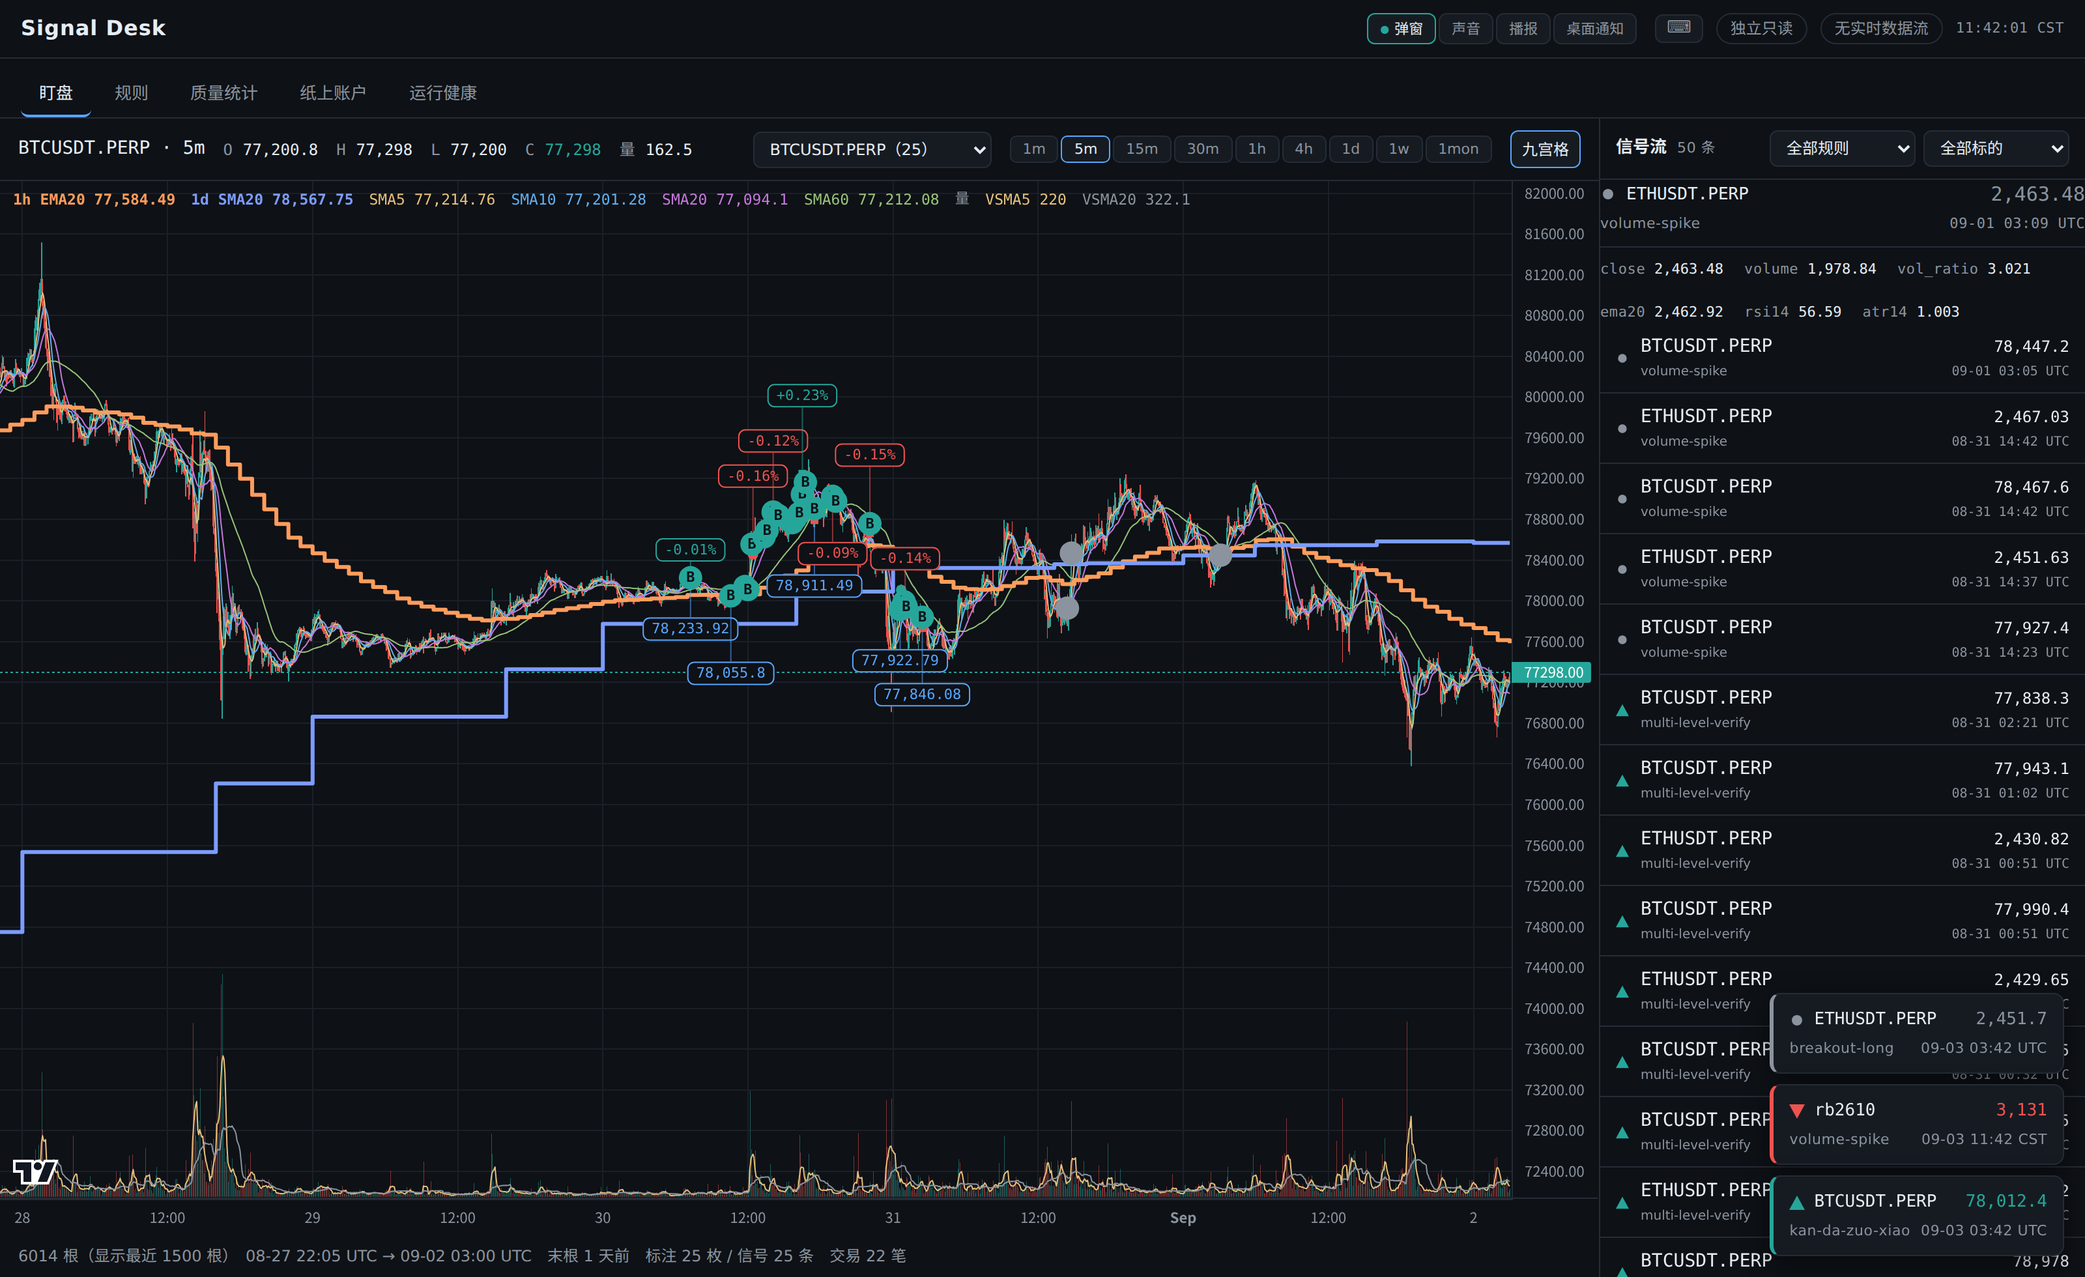
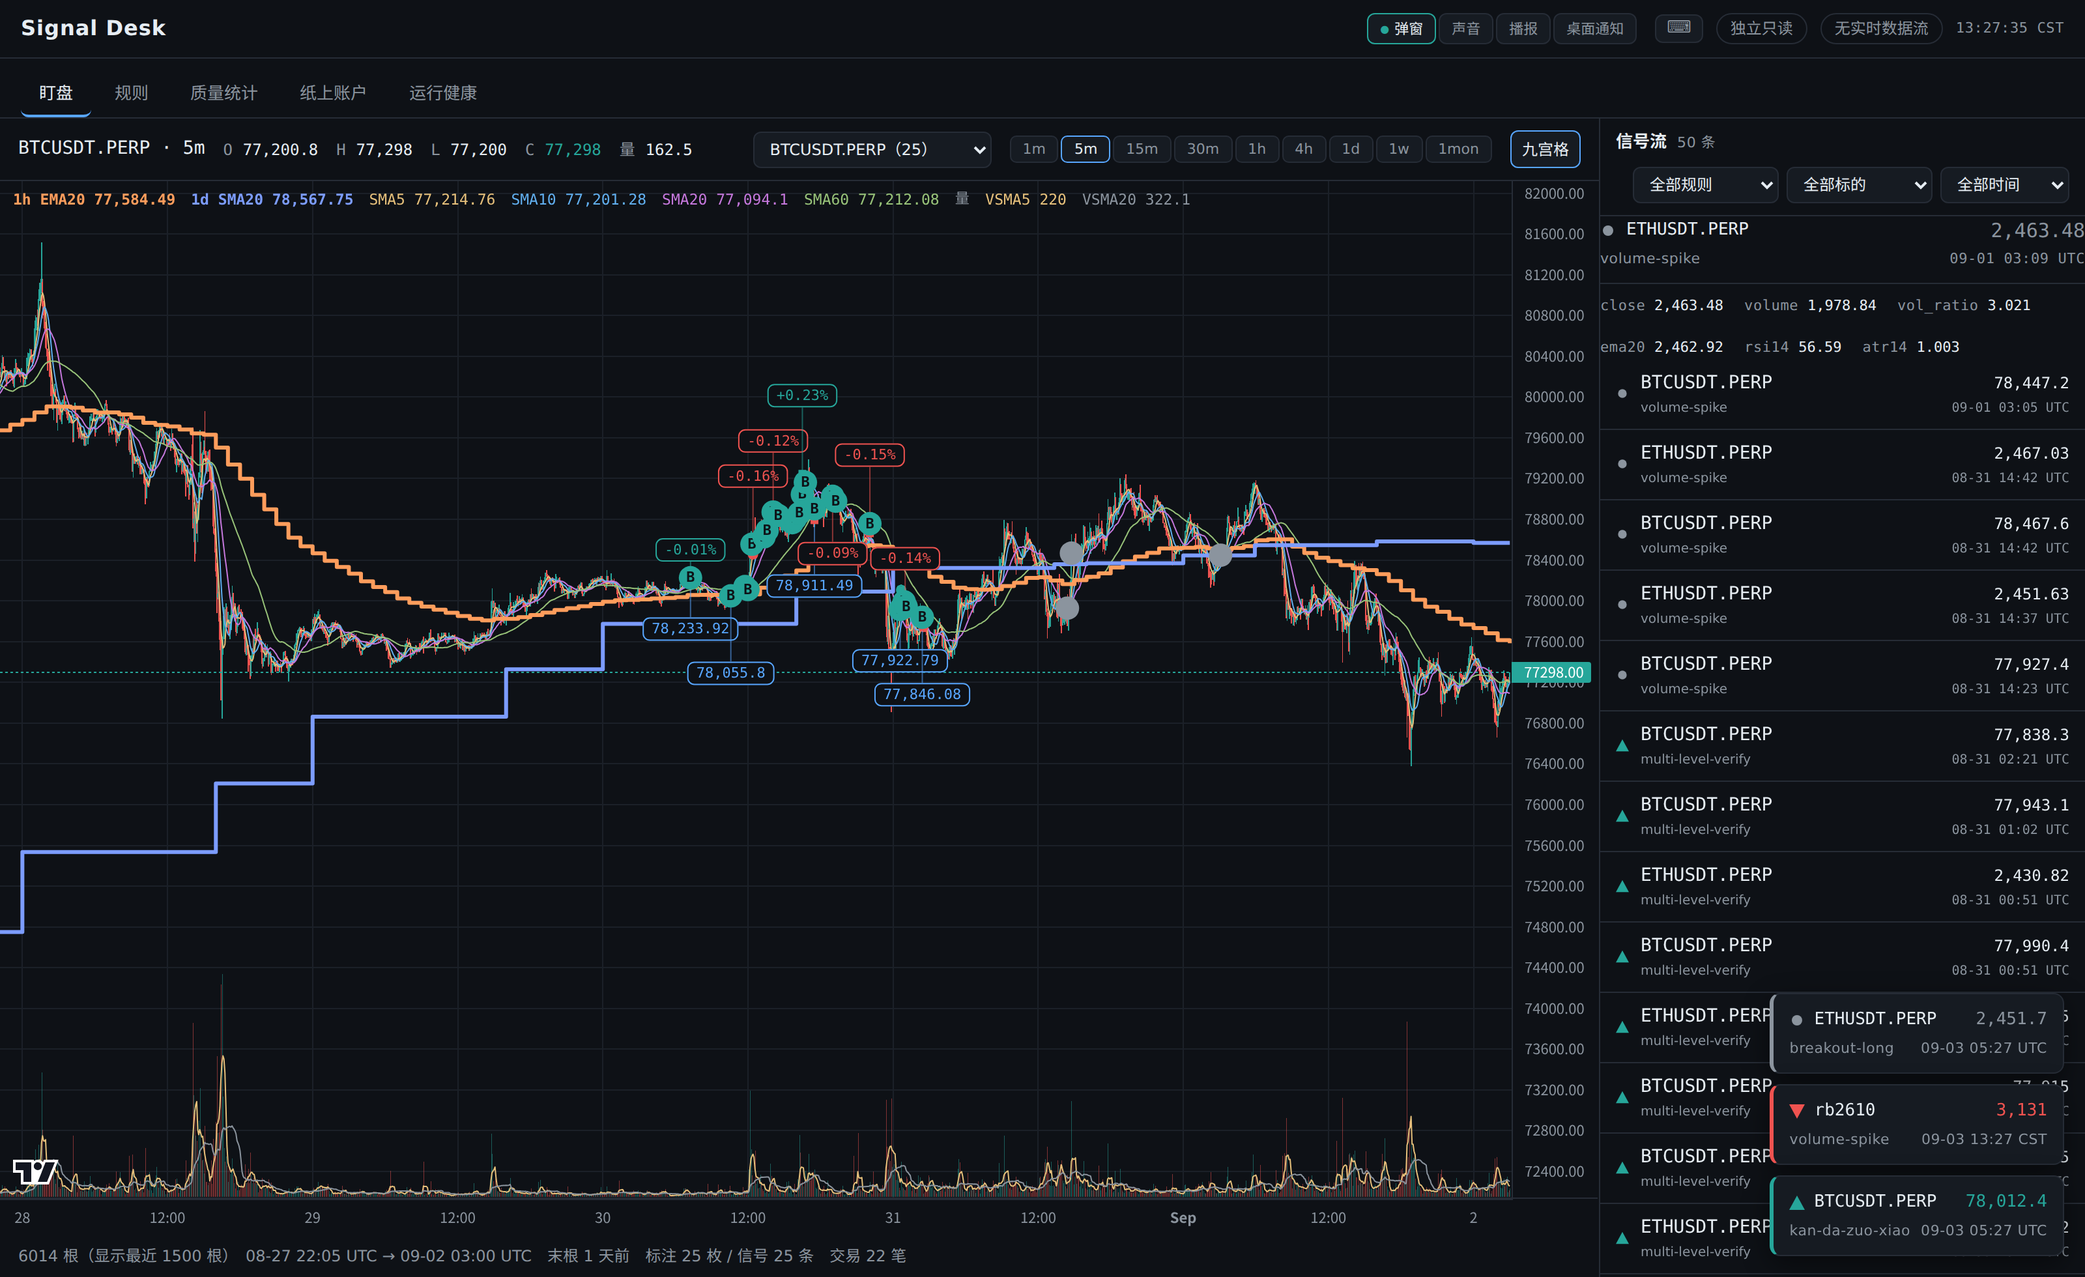
fix(web): 信号流补时间筛选；修控件高矮不齐与标题竖排
## 我少做了一块

上一版说「信号流支持按日期翻页」，实际只交付了**按条数翻页** ——
日期筛选只做在了质量统计页。服务端的 `since`/`until` 当时就一起做了，
缺的是信号流的界面入口。用户直接问「怎么没看到」。

补上：今天 / 近 3·7·30 天 / 指定日期。**走服务端筛选**而不是只筛已加载的那批，
所以能直接跳到任意日期，不用先「加载更早的」一页页翻回去。
换时间范围会从 offset=0 重拉（offset 是相对该范围的，沿用旧的会错位）。
日期按 CST 解释，与图上时间戳同口径。

另外用户看不到翻页按钮还有第二个原因：它**只在信号超过一页（500 条）时才出现**。

## 两个视觉问题（用户提醒「改前端要注意 UI 统一性」）

**① 统计口径栏的 chip 高矮不齐。** `.chip` 自己带边框，里面的控件本该去掉自身那套，
但原来只覆盖了 `input` —— 加 `<select>` 和 `<input type=date>` 就成了盒中盒。
而且四类控件默认行高各不相同，实测高度极差 **29.5px**
（其中「次根开盘入场」那个复选框 chip 高 5px，是本来就有的，一起量出来了）。
修法：`.chip` 钉 `min-height` + `box-sizing`，`select`/`date` 纳入覆盖，
复选框那个 chip 单独按居中对齐。**极差 29.5px -> 0.0px。**

**② 「信号流」标题被挤成竖排。** 加第三个筛选框把 rail-head 撑爆，
中文标题被压到最小宽度、一个字一行。**这是同一个坑的第三次**
（chart-head 的「九宫格」、cell-head、现在 rail-head）。
防法固定：标题 `flex:none` + `nowrap`，让**控件换行**而不是让标题被压扁。

CLAUDE.md 新增「前端改动的视觉一致性」一节，把这三条连同
「加控件之后必须截图量一遍」一起钉住 —— 这三类问题读代码全看不出来。

## 验证

真机量过：统计页六个 chip 高度全部 26px、顶部对齐（极差 0.0px）；
「信号流」标题 19.5px 单行不竖排；信号流选「今天」-> 0 条（本地数据止于 09-02）、
选「近 7 天」-> 50 条，请求确实带 `since=`；控制台无错误。

830 测试全绿（+4），ruff/mypy 干净，离线验收 49/49，截图已刷新。

Claude-Session: https://claude.ai/code/session_01StaFvqArU2DTk7UbXubU3U

Changed region(s): [[0.75, 0.0934, 1.0, 1.0], [0.9375, 0.2801, 1.0, 0.7781]]

diff --git a/src/sigdesk/web/static/styles.css b/src/sigdesk/web/static/styles.css
@@ -90,11 +90,16 @@ input:focus,select:focus{outline:none;border-color:var(--accent)}
 .chart-note{color:var(--dim);font-size:12px;padding:7px 14px;margin:0;flex:none}
 
 .rail{display:flex;flex-direction:column;min-height:0}
+/* **标题与计数一律 flex:none + nowrap**：右边的筛选框一多，这一行就撑爆，
+   「信号流」三个字会被压成竖排（加第三个下拉框时当场看到）。
+   同一个坑在 chart-head 的「九宫格」和 cell-head 上各踩过一次 —— 这是第三次。
+   筛选框允许换到第二行，比把标题挤没了强。 */
 .rail-head{display:flex;align-items:center;gap:8px;padding:9px 12px;
-  border-bottom:1px solid var(--line);flex:none}
-.rail-head b{font-size:13px}
-.rail-filters{display:flex;gap:6px;margin-left:auto}
-.rail-filters select{max-width:112px}
+  border-bottom:1px solid var(--line);flex:none;flex-wrap:wrap}
+.rail-head b{font-size:13px;flex:none;white-space:nowrap}
+.rail-head #sig-count{flex:none;white-space:nowrap}
+.rail-filters{display:flex;gap:6px;margin-left:auto;flex-wrap:wrap;justify-content:flex-end}
+.rail-filters select{max-width:112px;min-width:0;flex:0 1 auto}
 .detail{border-bottom:1px solid var(--line);border-left:2px solid var(--accent);
   background:var(--panel-2);padding:11px 12px 12px;flex:none}
 .detail-top{display:flex;align-items:center;gap:8px}
@@ -125,10 +130,28 @@ input:focus,select:focus{outline:none;border-color:var(--accent)}
 .params{display:flex;align-items:center;gap:10px;padding:11px 16px;background:var(--panel-2);
   border-bottom:1px solid var(--line);flex-wrap:wrap;flex:none}
 .params > b{font-size:11px;font-weight:600;letter-spacing:.3px}
+/* **min-height 固定**：chip 里可能装数字框、下拉框、复选框、日期框，
+   四者的默认行高各不相同，不钉死的话同一行的 chip 会高矮不齐（用户一眼看出来）。 */
 .chip{display:flex;align-items:baseline;gap:6px;background:var(--panel);
-  border:1px solid var(--line);border-radius:6px;padding:3px 10px}
-.chip input{background:none;border:none;padding:0;width:56px;font-size:12px}
-.chip input[type=checkbox]{width:auto}
+  border:1px solid var(--line);border-radius:6px;padding:3px 10px;
+  min-height:26px;box-sizing:border-box}
+/* chip 自己带边框和底色，**里面的控件一律去掉自己那套** ——
+   不去的话就是盒中盒：高度比别的 chip 高一截、圆角套圆角（用户反馈）。
+   select 与 date 都走全局那条带边框的 `select,input,button` 样式，必须在这里覆盖。 */
+.chip input,.chip select{background:none;border:none;padding:0;font-size:12px;
+  color:var(--fg);font-family:inherit;border-radius:0;
+  /* **line-height 要显式写死**：input 与 select 的默认行高不同，
+     不写的话同在一行的 chip 会差 1px（用户一眼看出来了）。 */
+  line-height:1.4;height:auto}
+.chip input{width:56px}
+.chip input[type=checkbox],.chip select{width:auto}
+/* 日期框内容比数字宽，56px 会截断 */
+.chip input[type=date]{width:auto;min-width:104px}
+.chip select:hover,.chip input:focus,.chip select:focus{border-color:transparent;outline:none}
+/* 复选框没有基线，`align-items:baseline` 对它不起作用，于是那个 chip 比别的高 5px
+   （这个是本来就有的，加下拉框时一起量出来）。给它单独按居中对齐并清掉默认外边距。 */
+.chip:has(input[type=checkbox]){align-items:center}
+.chip input[type=checkbox]{margin:0;height:12px;width:12px}
 .stats-grid{display:grid;grid-template-columns:1fr 1fr;flex:1;min-height:0}
 .stats-col{padding:16px;display:flex;flex-direction:column;gap:15px;min-height:0;overflow-y:auto}
 .stats-col.left{border-right:1px solid var(--line)}
@@ -359,3 +382,7 @@ button.danger:hover{border-color:var(--down);color:var(--down)}
 .feed-more:hover:not(:disabled){color:var(--fg);border-color:var(--accent)}
 .feed-more:disabled{cursor:default;opacity:.6}
 .feed-end{text-align:center;padding:8px;font-size:10.5px}
+
+/* 信号流的日期筛选：与旁边的「全部规则/全部标的」下拉同一套尺寸 */
+#f-when-custom{margin-top:6px}
+#f-when-custom input[type=date]{flex:1;min-width:0;font-size:11px;padding:4px 6px}

diff --git a/src/sigdesk/web/static/app.js b/src/sigdesk/web/static/app.js
@@ -122,10 +122,33 @@ function filtered() {
 
    往回翻是**追加**而不是替换：翻到第三页时上面两页还要看得见，
    而且图上的标注也是按 S.signals 画的。 */
+/* 信号流的时间范围 -> (since, until) 的 UTC 秒；没选就是 (null, null)。
+
+   **日期按 CST 解释**（期货交易日就是 CST 的日历日），与图上时间戳同口径 ——
+   用浏览器本地时区解释的话，机器时区一变筛出来的就不一样了。 */
+function feedRange() {
+  const pick = $("#f-when").value || "0";
+  const dayStart = (iso) => Math.floor(Date.parse(iso + "T00:00:00Z") / 1000) - 8 * 3600;
+  if (pick === "custom") {
+    const a = $("#f-since").value, b = $("#f-until").value;
+    return [a ? dayStart(a) : null, b ? dayStart(b) + 86400 - 1 : null];
+  }
+  const days = Number(pick);
+  if (!days) return [null, null];
+  // "今天"= 当前 CST 日历日的 00:00 起；其余按整天往回推
+  const nowCst = Math.floor(Date.now() / 1000) + 8 * 3600;
+  const todayStart = Math.floor(nowCst / 86400) * 86400 - 8 * 3600;
+  return [todayStart - (days - 1) * 86400, null];
+}
+
 const FEED_PAGE = 500;
 
 async function loadSignalPage(offset) {
-  const d = await api(`/api/signals?limit=${FEED_PAGE}&offset=${offset}`);
+  const [since, until] = feedRange();
+  const q = new URLSearchParams({ limit: String(FEED_PAGE), offset: String(offset) });
+  if (since !== null) q.set("since", String(since));
+  if (until !== null) q.set("until", String(until));
+  const d = await api("/api/signals?" + q);
   S.sigTotal = d.total;
   S.hasOlder = d.has_older;
   S.loadedOffset = offset + d.signals.length;
@@ -2585,6 +2608,22 @@ async function boot() {
   };
   $("#grid-toggle").onclick = () => toggleGrid();
   $("#f-rule").onchange = $("#f-symbol").onchange = renderFeed;
+  {
+    // **换时间范围要从头拉**：offset 是相对该范围的，沿用旧的会错位。
+    const reload = async () => {
+      S.signals = [];
+      await loadSignalPage(0);
+      fillSymbolPicker();
+      fillRuleFilter();
+      renderFeed();
+    };
+    $("#f-when").onchange = () => {
+      $("#f-when-custom").hidden = $("#f-when").value !== "custom";
+      if ($("#f-when").value !== "custom") reload();
+    };
+    // 自定义：两个日期框任一变化就重拉（只填一个也有意义 —— 单边开区间）
+    $("#f-since").onchange = $("#f-until").onchange = reload;
+  }
   $("#stats-form").onsubmit = loadStats;
   {
     const sel = $('#stats-form [name="range"]');

diff --git a/src/sigdesk/web/static/index.html b/src/sigdesk/web/static/index.html
@@ -65,6 +65,20 @@
           <div class="rail-filters">
             <select id="f-rule"><option value="">全部规则</option></select>
             <select id="f-symbol"><option value="">全部标的</option></select>
+            <!-- 时间**走服务端筛选**（不是只筛已加载的那批），所以能直接跳到
+                 任意日期，不用先「加载更早的」翻回去。 -->
+            <select id="f-when">
+              <option value="0">全部时间</option>
+              <option value="1">今天</option>
+              <option value="3">近 3 天</option>
+              <option value="7">近 7 天</option>
+              <option value="30">近 30 天</option>
+              <option value="custom">指定日期…</option>
+            </select>
+          </div>
+          <div id="f-when-custom" class="rail-filters" hidden>
+            <input id="f-since" class="mono" type="date" title="从这一天起">
+            <input id="f-until" class="mono" type="date" title="到这一天止">
           </div>
         </div>
         <div id="detail"></div>

diff --git a/tests/test_panel_js.py b/tests/test_panel_js.py
@@ -760,7 +760,7 @@ def test_feed_pages_backwards_from_the_newest() -> None:
     js = pathlib.Path("src/sigdesk/web/static/app.js").read_text(encoding="utf-8")
     fn = js[js.index("async function loadSignalPage("):]
     fn = fn[: fn.index("\n}\n")]
-    assert "offset=" in fn, "要带 offset 翻页"
+    assert "offset" in fn, "要带 offset 翻页"
     assert "dedup_key" in fn, "往回翻是追加，必须按 dedup_key 去重"
 
     feed = js[js.index("function renderFeed()"):]
@@ -1139,3 +1139,59 @@ def test_clock_shows_market_time_not_utc() -> None:
     tick = tick[: tick.index("\n  };")]
     assert "8 * 3600 * 1000" in tick, "时钟没有换算到 CST"
     assert "CST" in tick and "UTC" in tick, "要标出时区，并把 UTC 留在 title 里"
+
+
+def test_chip_controls_do_not_draw_their_own_box() -> None:
+    """`.chip` 自己带边框和底色，**里面的控件必须去掉自己那套**。
+
+    全局 `select,input,button,textarea` 那条给所有控件加了边框和 padding，
+    所以 chip 里放 `<select>` 或 `<input type=date>` 会变成盒中盒 ——
+    比旁边的 chip 高一截、圆角套圆角（用户反馈"区间的框大小和别的不一致"）。
+    原来只覆盖了 `input`，加下拉框时就露馅了。
+    """
+    css = pathlib.Path("src/sigdesk/web/static/styles.css").read_text(encoding="utf-8")
+    block = css[css.index(".chip input,.chip select{"):]
+    block = block[: block.index("}")]
+    for prop in ("background:none", "border:none", "padding:0"):
+        assert prop in block, f".chip 里的控件要去掉 {prop}"
+    assert ".chip select" in css, "select 也要被覆盖，不只是 input"
+    assert "input[type=date]" in css, "日期框比数字宽，56px 会截断"
+
+
+def test_feed_has_a_time_filter_that_goes_to_the_server() -> None:
+    """信号流的时间筛选要**走服务端**，不能只筛已加载的那批 ——
+    否则想看两个月前的还得先一页页翻回去，等于没有筛选。"""
+    js = APP.read_text(encoding="utf-8")
+    html = pathlib.Path("src/sigdesk/web/static/index.html").read_text(encoding="utf-8")
+    assert 'id="f-when"' in html, "信号流筛选行要有时间下拉"
+
+    fn = js[js.index("async function loadSignalPage("):]
+    fn = fn[: fn.index("\n}\n")]
+    assert "feedRange()" in fn and "since" in fn, "取数时要把时间范围带给服务端"
+
+
+def test_panel_titles_never_get_squeezed_into_a_column() -> None:
+    """**这个坑踩过三次**：chart-head 的「九宫格」、cell-head、rail-head 的「信号流」。
+
+    都是同一个成因：flex 行里右边的控件一多，左边的标题被压到最小宽度，
+    中文标题就变成一个字一行的竖排。防法固定 —— 标题 `flex:none` + `nowrap`，
+    让**控件换行**而不是让标题被压扁。
+    """
+    css = pathlib.Path("src/sigdesk/web/static/styles.css").read_text(encoding="utf-8")
+    for sel, why in ((".rail-head b", "信号流"), ("#grid-toggle", "九宫格")):
+        block = css[css.index(sel + "{"):]
+        block = block[: block.index("}")]
+        assert "flex:none" in block, f"{why} 会被压扁"
+        assert "white-space:nowrap" in block, f"{why} 会换行"
+    # cell-head 走的是整行 nowrap，写法不同但同一个目的
+    cell = css[css.index(".cell-head{"):]
+    assert "flex-wrap:nowrap" in cell[: cell.index("}")]
+
+
+def test_chips_have_a_pinned_height() -> None:
+    """chip 里装数字框/下拉框/复选框/日期框，四者默认行高各不相同。
+    不钉死 min-height 的话同一行的 chip 高矮不齐（实测极差曾达 29.5px）。"""
+    css = pathlib.Path("src/sigdesk/web/static/styles.css").read_text(encoding="utf-8")
+    block = css[css.index(".chip{"):]
+    block = block[: block.index("}")]
+    assert "min-height" in block and "box-sizing:border-box" in block

diff --git a/CLAUDE.md b/CLAUDE.md
@@ -308,6 +308,16 @@ canvas（z-index:1/2）整个盖住就是这样 —— 元素在、文字在、v
   换个区间结论就变，一份不写明区间的胜率没有意义。
 - **翻页锚点从新往旧数**：从旧往新数的话，新信号一到达锚点就错位。
 
+## 前端改动的视觉一致性（这三条各踩过多次）
+- **标题在 flex 行里一律 `flex:none` + `white-space:nowrap`。** 右边控件一多，
+  标题会被压到最小宽度、中文变成一个字一行的竖排。踩过三次：chart-head 的
+  「九宫格」、cell-head、rail-head 的「信号流」。**让控件换行，别让标题被压扁。**
+- **`.chip` 要钉 `min-height`。** 里面可能装数字框/下拉框/复选框/日期框，
+  四者默认行高各不相同，实测极差曾达 29.5px（用户一眼看出来）。
+- **`.chip` 里的控件要去掉自己那套边框背景**（全局 `select,input,button` 那条给了），
+  不去就是盒中盒。原来只覆盖了 `input`，加 `select`/`date` 时露馅。
+- **加控件之后必须截图量一遍**（`shoot_panel.mjs`）：这三类问题读代码全看不出来。
+
 ## 信号提醒（面板右上角四个开关）
 - 弹窗／声音／语音播报／桌面通知，选择存 localStorage。**只有 SSE 推来的新信号才提醒**，
   开机灌进的历史信号一条都不响 —— 改 `connectSSE` 时别把 `queueAlert` 挪到别处。

diff --git a/CHANGELOG.md b/CHANGELOG.md
@@ -28,6 +28,14 @@
   均线最大相对误差 1.4e-15（滚动累加的浮点噪声，非口径差异）。
 
 ### Fixed
+- **信号流补上时间筛选**（今天 / 近 3·7·30 天 / 指定日期）。上一版只做了翻页，
+  而当初说的是「按日期翻页」—— 服务端 `since`/`until` 早就支持，缺的是界面入口。
+  **走服务端筛选**（不是只筛已加载的那批），所以能直接跳到任意日期。
+- **统计口径栏的控件高矮不齐**：`.chip` 里装数字框/下拉框/复选框/日期框，
+  四者默认行高不同，实测极差 29.5px。给 `.chip` 钉 `min-height`，
+  并把 `select`/`date` 一起纳入「去掉自身边框」的覆盖（原来只覆盖了 `input`）。
+- **「信号流」标题被挤成竖排**（加第三个筛选框之后）。与「九宫格」「cell-head」
+  同一个成因，这是第三次 —— 标题 `flex:none` + `nowrap`，让控件换行。
 - **breakout 的 `box` 用固定百分比，事实上不适用于高波动品种。** 本项目其余阈值
   都 ATR 归一，只有这条是例外：`consolidation(20, 0.008)` 在铜上 49.8% 的时间成立、
   在股指上只有 **0.3%**，各品种命中率极差 **170 倍** —— 规则声称 `universe: CN.*`
